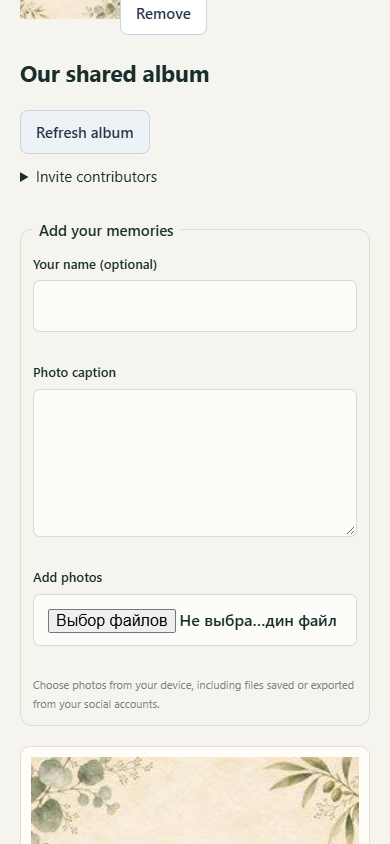
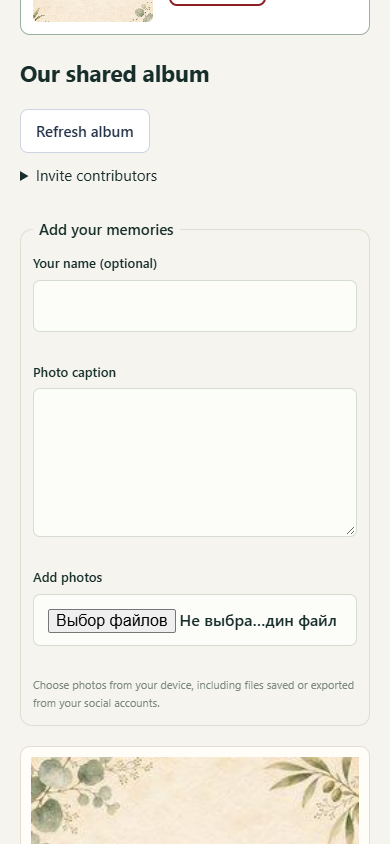
Record successful live PoemShip deployment and reproducible release audit

diff --git a/scripts/audit-poetry-release.py b/scripts/audit-poetry-release.py
@@ -1,0 +1,49 @@
+#!/usr/bin/env python3
+"""Explicit live release check; creates snapshots and revokes its synthetic PDF document."""
+import collections
+import json
+import time
+import urllib.request
+
+BASE = 'https://www.codoc.site'
+
+def call(path, payload=None, headers=None, binary=False):
+    request = urllib.request.Request(BASE + path,
+        data=None if payload is None else json.dumps(payload).encode(),
+        headers={'Content-Type': 'application/json', 'User-Agent': 'CoDoc-release-audit/1.0', **(headers or {})})
+    with urllib.request.urlopen(request, timeout=140) as response:
+        body = response.read(16000000)
+        return body if binary else json.loads(body)
+
+first = None
+for language, audience in [('ru', 'middle'), ('en', 'middle'), ('es', 'middle'), ('ru', 'child')]:
+    start = time.monotonic()
+    prepared = call('/api/journeys/poetry', {'latitude': 55.75, 'longitude': 37.62,
+        'zone': 'Europe/Moscow', 'language': language, 'mood': 'heartfelt', 'audience': audience,
+        'seed': 'release-verification-20261113'})
+    bundle = prepared['bundle']
+    assert len(bundle['cards']) == 7
+    assert call('/api/journeys/poetry/' + prepared['id']) == bundle
+    for card in bundle['cards']:
+        assert card['poem'].strip() and card['author'] and card['sourceUrl'].startswith('https://')
+        assert card['sourceMetadata']['text_complete'] is True
+        assert card['sourceMetadata']['language'] == language
+    counts = collections.Counter(card['sourceMetadata']['source'] for card in bundle['cards'])
+    print(json.dumps({'language': language, 'audience': audience, 'cards': 7,
+        'sources': dict(counts), 'seconds': round(time.monotonic() - start, 1), 'snapshotRoundTrip': True}), flush=True)
+    if first is None:
+        first = prepared
+
+created = None
+try:
+    [created] = call('/api/journeys', {'kind': 'POETRY', 'title': 'Release verification',
+        'data': {'poetry': first['id'], 'locale': 'ru'}, 'recipients': []})
+    pdf = call('/api/journeys/' + created['document']['id'] + '/pdf', binary=True)
+    assert pdf.startswith(b'%PDF')
+    print(json.dumps({'nativePdf': True, 'bytes': len(pdf)}), flush=True)
+finally:
+    if created:
+        status = call('/api/journeys/' + created['document']['id'] + '/status',
+            {'action': 'REVOKE'}, {'X-Management-Key': created['managementKey']})
+        assert status['state'] == 'REVOKED'
+        print('Synthetic publication revoked; management key was not logged.', flush=True)

diff --git a/reports/DEPLOYMENT-POEMSHIP-2026-11-13.md b/reports/DEPLOYMENT-POEMSHIP-2026-11-13.md
@@ -1,0 +1,39 @@
+# Выпуск PoemShip — 13 ноября 2026
+
+Развёрнут на https://www.codoc.site. Приложение и PostgreSQL healthy;
+поддерживающие gateway, Redis и drawio работают. Внешний Nginx обновлён,
+`nginx -t` и reload успешны, сохранён фактический upstream 8080.
+
+Версии выпуска, отправленные в Git:
+
+- ticket-editor: `ba5172c`;
+- ticket-pdf: `13f45ec`;
+- ticket-infra: `3f6c7f4`.
+
+Резервная копия:
+`/home/ticket/codoc/backups/postgres-deploy-20261113T115250Z-380309`.
+Резервная копия внешнего Nginx:
+`/etc/nginx/sites-available/codoc.backup-20261113T120112Z-385522`.
+
+Проверки публичного API после выпуска:
+
+| Подбор | Результат | Время |
+| --- | --- | --- |
+| ru, взрослый | 7 полных текстов PoemShip | 5,6 с |
+| en, взрослый | 7 полных текстов PoemShip | 3,9 с |
+| es, взрослый | 7 полных текстов PoemShip | 2,3 с |
+| ru, ребёнок | 7 полных текстов PoemShip | 9,5 с |
+
+Для каждого набора GET снапшота точно совпал с сохранённым Bundle.
+Созданный по нему PDF: 165 594 байта; тестовая публикация отозвана через
+управляющий API. В скрипте проверки сначала использовалось неверное имя поля
+ответа отзыва (`revoked` вместо `state`); сам POST прошёл, проверка исправлена.
+
+Edge 390×844, живой совместный альбом: выбор фона, создание, загрузка фотографии,
+кириллическая подпись и PDF прошли. Тестовый альбом отозван, ключ управления
+не выводился в лог.
+
+После этого пользователь сообщил о трёх проблемах: служебные номера строк в
+резервном Wikisource, обязательность региона, отсутствие фона на канве конструктора.
+Эти исправления готовятся отдельным выпуском. Требования к новым тематическим
+прогулкам тоже получены после начала этого деплоя и в перечисленные версии не входят.
